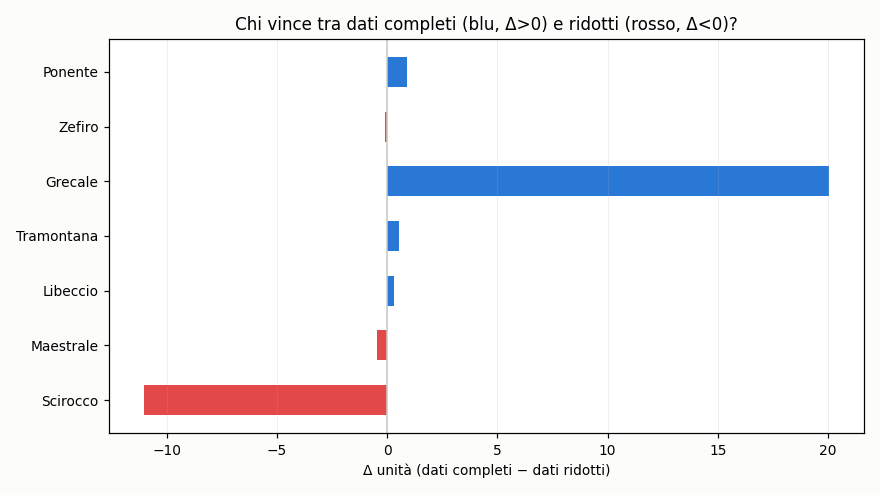
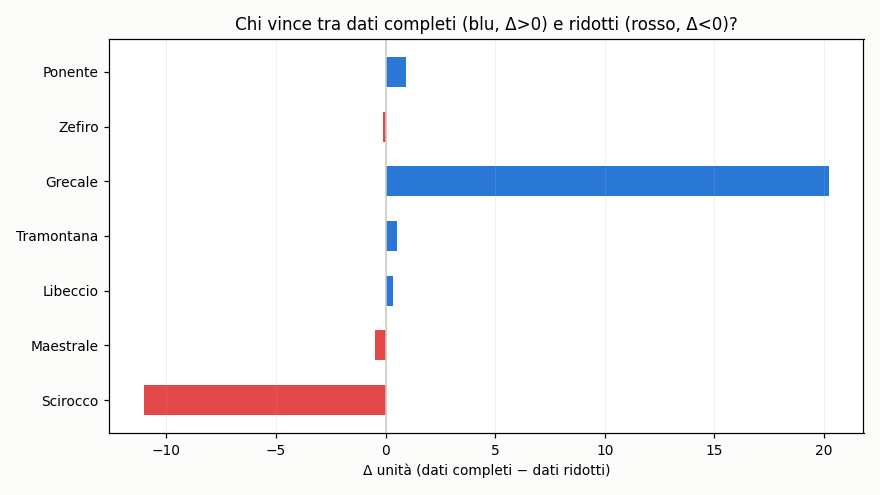
aggiornamento 2026-07-27 18:26 UTC

diff --git a/README.md b/README.md
@@ -37,9 +37,9 @@ scala in unità). Non indichiamo quale.
 
 ## Grafici
 
-![Coppie: dati completi vs ridotti](https://raw.githubusercontent.com/Kitem19/ippica-track-record/main/charts/equity_pairs.png?v=220cde7e)
+![Coppie: dati completi vs ridotti](https://raw.githubusercontent.com/Kitem19/ippica-track-record/main/charts/equity_pairs.png?v=08f69bdc)
 
-![Delta per coppia](https://raw.githubusercontent.com/Kitem19/ippica-track-record/main/charts/coppie_delta.png?v=e2afcf23)
+![Delta per coppia](https://raw.githubusercontent.com/Kitem19/ippica-track-record/main/charts/coppie_delta.png?v=f9bc970d)
 
 ### Come leggere i grafici
 
@@ -60,7 +60,7 @@ _Poche giornate: numeri ancora rumorosi, si conclude a fine fase (31/7)._
 - **Maestrale**: in sostanziale pareggio — troppo presto per dire
 - **Libeccio**: in sostanziale pareggio — troppo presto per dire
 - **Tramontana**: in sostanziale pareggio — troppo presto per dire
-- **Grecale**: dati completi avanti di 20,0u
+- **Grecale**: dati completi avanti di 20,2u
 - **Zefiro**: in sostanziale pareggio — troppo presto per dire
 - **Ponente**: in sostanziale pareggio — troppo presto per dire
 
@@ -68,22 +68,22 @@ _Poche giornate: numeri ancora rumorosi, si conclude a fine fase (31/7)._
 
 | Sistema | Cassa (u) | P/L (u) | Selezioni | Escluse | Stato |
 |---|---|---|---|---|---|
-| Grecale | 19,8 | -0,2 | 323 | 4 | 🟢 |
-| Scirocco-B | 11,0 | -9,0 | 250 | 2 | ⏸ |
+| Grecale | 20,0 | -0,0 | 324 | 4 | 🟢 |
+| Scirocco-B | 11,0 | -9,0 | 250 | 3 | ⏸ |
 | Maestrale-B | 0,0 | -20,0 | 100 | 255 | 🛑 |
-| Ponente | 0,0 | -20,0 | 213 | 38 | 🛑 |
-| Scirocco | 0,0 | -20,1 | 80 | 280 | 🛑 |
+| Ponente | 0,0 | -20,0 | 213 | 39 | 🛑 |
+| Scirocco | 0,0 | -20,1 | 80 | 281 | 🛑 |
 | Grecale-B | 0,0 | -20,2 | 137 | 183 | 🛑 |
-| Tramontana | 0,0 | -20,3 | 45 | 320 | 🛑 |
-| Zefiro-B | 0,0 | -20,5 | 143 | 82 | 🛑 |
-| Maestrale | 0,0 | -20,5 | 104 | 273 | 🛑 |
+| Tramontana | 0,0 | -20,3 | 45 | 321 | 🛑 |
+| Zefiro-B | 0,0 | -20,5 | 143 | 83 | 🛑 |
+| Maestrale | 0,0 | -20,5 | 104 | 274 | 🛑 |
 | Zefiro | 0,0 | -20,6 | 268 | 16 | 🛑 |
 | Libeccio | 0,0 | -20,6 | 181 | 179 | 🛑 |
 | Tramontana-B | 0,0 | -20,8 | 324 | 29 | 🛑 |
-| Libeccio-B | 0,0 | -20,9 | 119 | 196 | 🛑 |
-| Ponente-B | 0,0 | -21,0 | 63 | 100 | 🛑 |
+| Libeccio-B | 0,0 | -20,9 | 119 | 197 | 🛑 |
+| Ponente-B | 0,0 | -21,0 | 63 | 101 | 🛑 |
 
-_Aggiornato: 27/07 20:21_
+_Aggiornato: 27/07 20:26_
 ---
 *Nessuna delle informazioni qui pubblicate costituisce consiglio di gioco.
 Il gioco può causare dipendenza — 18+.*
